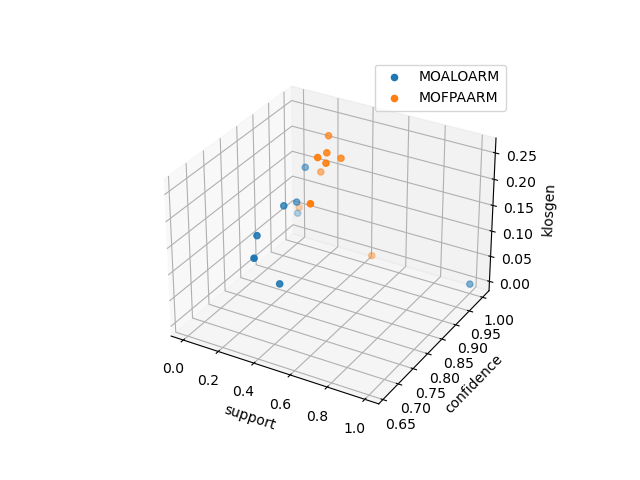
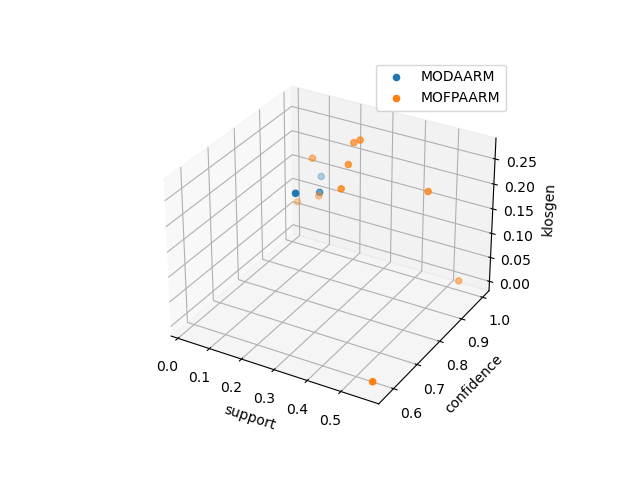
Add DragonFly algorithm

diff --git a/src/Algorithm/MODAARM.py b/src/Algorithm/MODAARM.py
@@ -1,0 +1,146 @@
+from src.Utils.Fitness import *
+from src.Utils.Population import *
+import matplotlib.pyplot as plt
+import pandas as pd
+from scipy.spatial import distance
+from src.Utils.Graphs import *
+from time import time
+import numpy as np
+import scipy.special
+from sklearn.preprocessing import MinMaxScaler
+
+class MODAARM:
+    def __init__(self,nbItem,populationSize,nbIteration,nbObjectifs,objectiveNames,data,
+                 minDist = 8,nbChanges = 5,s=0.5,a=0.5,c=0.5,f=0.5,e=0.05,w=0.3,
+                 save=True,display=True,path='Figures/'):
+        self.population = Population('horizontal_binary', populationSize, nbItem)
+        self.nbItem = nbItem
+        self.nbIteration = nbIteration
+        self.nbObjectifs = nbObjectifs
+        self.fitness = Fitness('horizontal_binary', objectiveNames, populationSize )
+        self.food = np.zeros
+        self.predator = []
+        self.executionTime = 0
+        self.minDist = minDist
+        self.nbChanges= nbChanges
+        self.s=s
+        self.a=a
+        self.c=c
+        self.f=f
+        self.e=e
+        self.w=w
+        self.distance = np.zeros((populationSize,populationSize),dtype=float)
+        self.velocity = np.zeros((populationSize,nbItem*2),dtype=float)
+        self.orientaiton = np.zeros((populationSize,nbItem*2),dtype=float)
+        self.fitness.ComputeScorePopulation(self.population.population,data)
+        self.UpdatePredator()
+        self.UpdateFood()
+        self.CalculDistance()
+
+    def UpdateVelocity(self):
+        self.velocity = np.zeros((self.population.populationSize, self.nbItem * 2))
+        for i in range(self.population.populationSize):
+            nbChange= rd.randint(1,self.nbChanges)
+            for j in range(nbChange):
+                index = rd.randint(0,self.nbItem*2-1)
+                self.velocity[i,index] = float(rd.randint(-1,1))
+
+    def GetNeighbors(self,df):
+        N = []
+        for i in range(self.population.populationSize):
+            if self.distance[i,df] <= self.minDist:
+                N.append(i)
+        return N
+
+    def UpdateOrientation(self):
+        for i in range(self.population.populationSize):
+            N = self.GetNeighbors(i)
+            A = self.Alignment(N)
+            S = self.Separation(i,N)
+            C = self.Cohesion(i,N)
+            F = self.FoodAttraction(i)
+            E = self.PredatorDistraction(i)
+            self.orientaiton[i] = (self.s*S + self.a*A+self.c *C+self.f*F+self.e*E)+ self.w*self.orientaiton[i]
+
+
+
+
+    def Separation(self,df,N):
+        S =np.zeros(self.nbItem*2,dtype=float)
+        for j in range(len(N)):
+            S= S +self.population.population[df]-self.population.population[N[j]]
+        return -S
+
+    def Alignment(self,N):
+        self.UpdateVelocity()
+        A = np.zeros(self.nbItem*2,dtype=float)
+        for i in range(len(N)):
+            A = A +self.velocity[N[i]]
+        return A/len(N)
+
+    def Cohesion(self,df,N):
+        C = np.zeros(self.nbItem*2,dtype=float)
+        for i in range(len(N)):
+            C = C +self.population.population[N[i]]
+        C = C/len(N)
+        return C-self.population.population[df]
+
+    def FoodAttraction(self,df):
+        return self.food - self.population.population[df]
+
+    def PredatorDistraction(self,df):
+        return self.predator + self.population.population[df]
+
+    def CalculDistance(self):
+        for i in range(self.population.populationSize):
+            for j in range(self.population.populationSize) :
+                dst = distance.euclidean(self.population.population[i], self.population.population[j])
+                self.distance[i,j] = dst
+
+    def UpdatePredator(self):
+        paretoFront = np.zeros(self.population.populationSize)
+        for i in range(self.population.populationSize):
+            for j in range(self.population.populationSize):
+                domination = self.fitness.Domination(self.fitness.scores[i],self.fitness.scores[j])
+                if domination == 1:
+                    paretoFront[i] = paretoFront[i] +1
+        index = np.argmax(paretoFront)
+        self.predator = copy.deepcopy(self.population.population[index])
+
+    def UpdateFood(self):
+        indexs = np.arange(self.population.populationSize)
+        paretoFront = np.ones(self.population.populationSize)
+        for i in range(self.population.populationSize):
+            for j in range(self.population.populationSize):
+                domination = self.fitness.Domination(self.fitness.scores[i],self.fitness.scores[j])
+                if domination == 1:
+                    paretoFront[i] = 0
+                    break
+        candidate = indexs[paretoFront == 1]
+        index = rd.choice(candidate)
+        self.food = copy.deepcopy(self.population.population[index])
+
+    def gamma(self,x):
+        return scipy.special.factorial(x-1)
+
+    def RandomWalk(self,df):
+        beta = 1.5
+        sigma = np.power((self.gamma(1+beta )*np.sin(np.pi*beta/2))/(self.gamma((1+beta)/2)*beta*np.power(2,(beta-1)/2)),1/beta)
+        levy = 0.01* (rd.random()*sigma)/(np.power(rd.random(),1/beta))
+        self.population.population[df] = self.population.population[df] + rd.randint(-1,1)*levy * self.population.population[df]
+
+    def Run(self,data,i):
+        t1 = time()
+        self.minDist -=0.1
+        self.UpdateOrientation()
+        for j in range(self.population.populationSize):
+            N = self.GetNeighbors(j)
+            if len(N)>0:
+                self.population.population[j] = self.population.population[j] + self.orientaiton[j]
+            else:
+                self.RandomWalk(j)
+        self.fitness.ComputeScorePopulation(self.population.population,data)
+        self.UpdateFood()
+        self.UpdatePredator()
+        self.executionTime = time() - t1
+        self.CalculDistance()

diff --git a/main.py b/main.py
@@ -11,6 +11,7 @@ from src.Algorithm.MOCatSOARM import *
 from src.Algorithm.MOTLBOARM import *
 from src.Algorithm.MOFPAARM import *
 from src.Algorithm.MOALOARM import *
+from src.Algorithm.MODAARM import *
 
 from src.Utils.Performances import *
 
@@ -18,7 +19,7 @@ nbIteration = 20
 populationSize = 200
 objectiveNames = ['support','confidence','klosgen']
 criterionList = ['scores','execution time']
-algorithmNameList = ['MOALOARM','MOFPAARM']
+algorithmNameList = ['MODAARM','MOFPAARM']
 #algorithmNameList = ['CSOARM','mopso','nsgaii','hmofaarm','mowsaarm','mocatsoarm','motlboarm']
 
 perf = Performances(algorithmNameList,criterionList,objectiveNames)
@@ -35,9 +36,10 @@ mocatsoarm = MOCatSOARM(data.shape[1],populationSize,nbIteration,len(objectiveNa
 motlboarm = MOTLBOARM(data.shape[1],populationSize,nbIteration,len(objectiveNames),objectiveNames,save=True,display=False,path='Figures/MOTLBOARM/')
 mofpaarm = MOFPAARM(data.shape[1],populationSize,nbIteration,len(objectiveNames),objectiveNames,data,save=True,display=False,path='Figures/MOFPAARM/')
 moaloarm = MOALOARM(data.shape[1],populationSize,nbIteration,len(objectiveNames),objectiveNames,data,save=True,display=False,path='Figures/MOALOARM/')
+modaarm = MODAARM(data.shape[1],populationSize,nbIteration,len(objectiveNames),objectiveNames,data,save=True,display=False,path='Figures/MODAARM/')
 
 #algorithmList = [csoarm,mopso,nsgaii,hmofaarm,mowsaarm,mocatsoarm,motlboarm]
-algorithmList = [moaloarm,mofpaarm]
+algorithmList = [modaarm,mofpaarm]
 for i in range(nbIteration):
     k = 0
     for alg in algorithmList:
